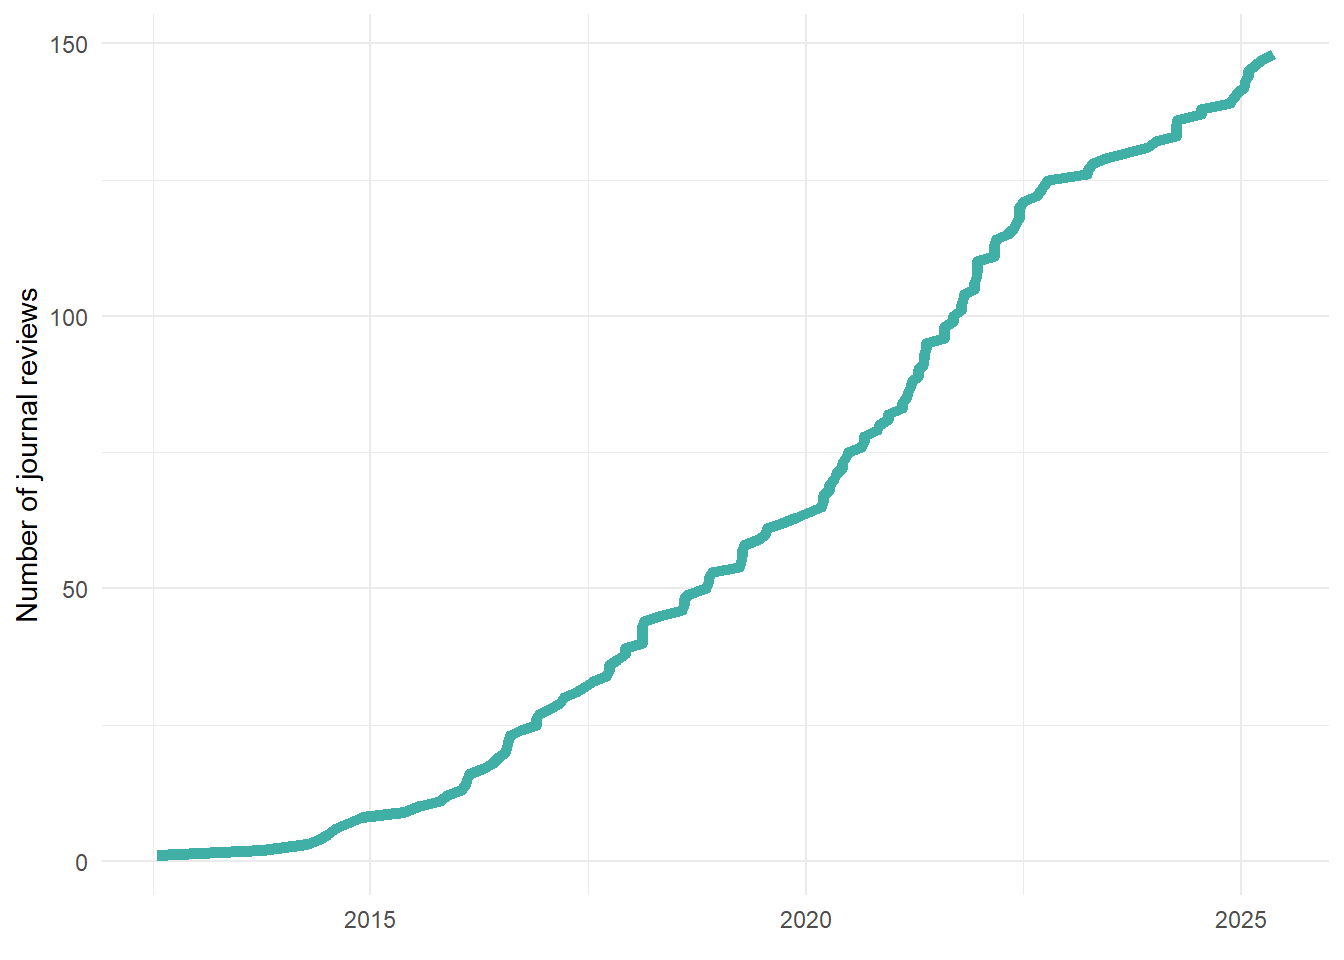
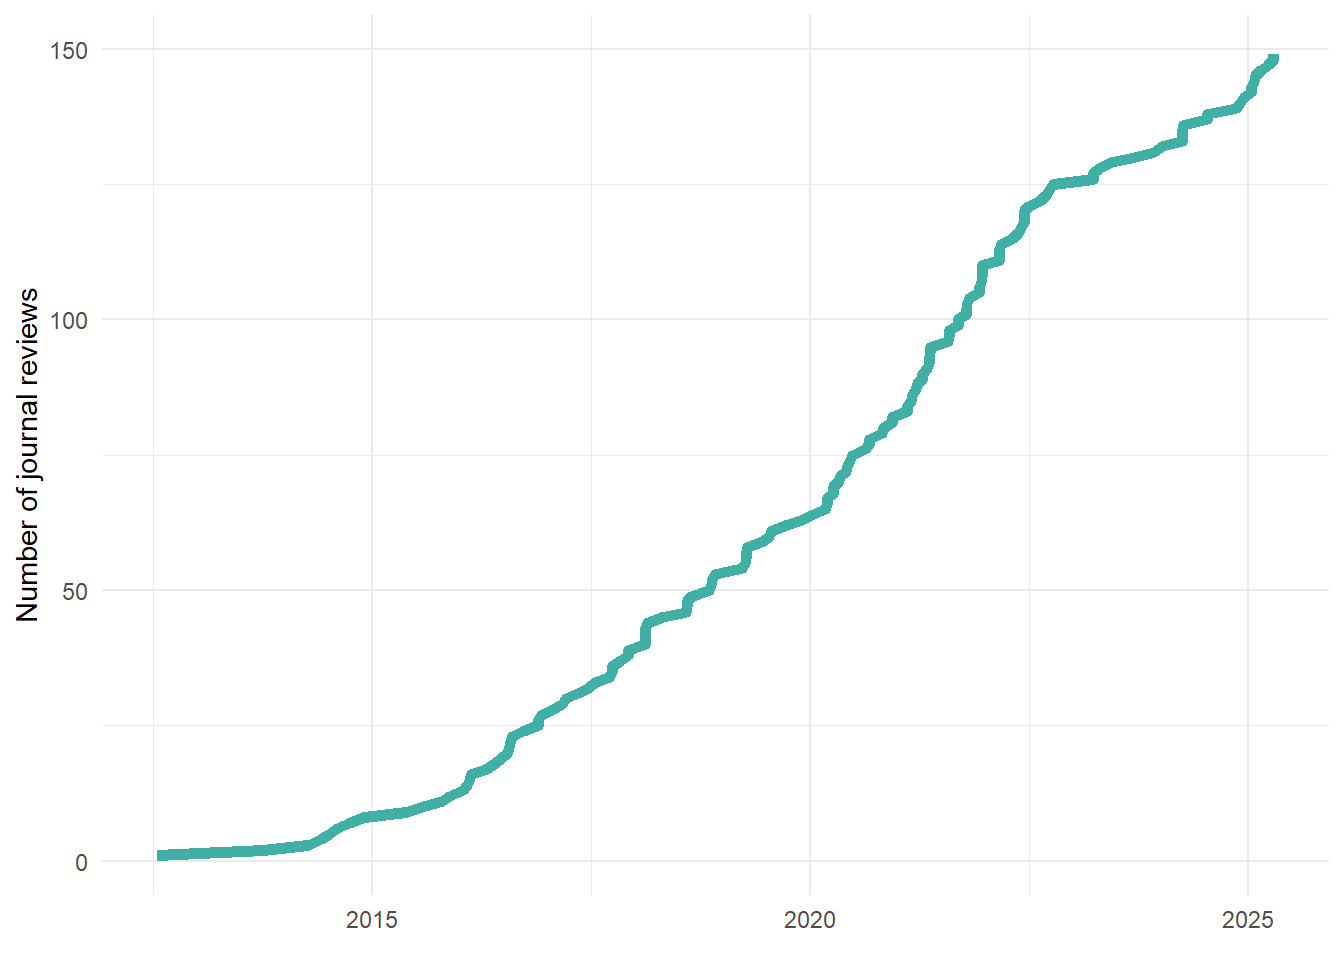
Reviews

diff --git a/public/other/review/index.html b/public/other/review/index.html
@@ -141,7 +141,7 @@
       </header>
       <section class="post-body pt5 pb4">
         <p>Like many academics, I spend some of my time reviewing submissions for academic journals, publishers, and funding bodies. I also like measuring things and keeping track of them, even if there&rsquo;s no point in doing so.<sup id="fnref:1"><a href="#fn:1" class="footnote-ref" role="doc-noteref">1</a></sup> I think it can be useful to share this sort of information &ndash; no one really knows how much reviewing other people do, which makes it hard to know if you are doing a lot or a little of something. I have no idea if I do more or less reviewing than most people in my field &ndash; I know some who do more, but other who do less. In any case, here is a brief record of the reviews I have done during my career.</p>
-<p>I reviewed my first paper for a journal in 2012, and since then I have reviewed  148 submissions for 49 different journals. That works out as about 11.5 reviews per year since I started reviewing, and 15.7 per year in the last five years.</p>
+<p>I reviewed my first paper for a journal in 2012, and since then I have reviewed  149 submissions for 49 different journals. That works out as about 11.7 reviews per year since I started reviewing, and 16.1 per year in the last five years.</p>
 <p>Here&rsquo;s a plot of how many reviews I&rsquo;ve done over time:</p>
 <img src="/other/review/index_files/figure-html/unnamed-chunk-2-1.png" width="672" />
 <p>And here are the ten journals I&rsquo;ve reviewed for the most:</p>
